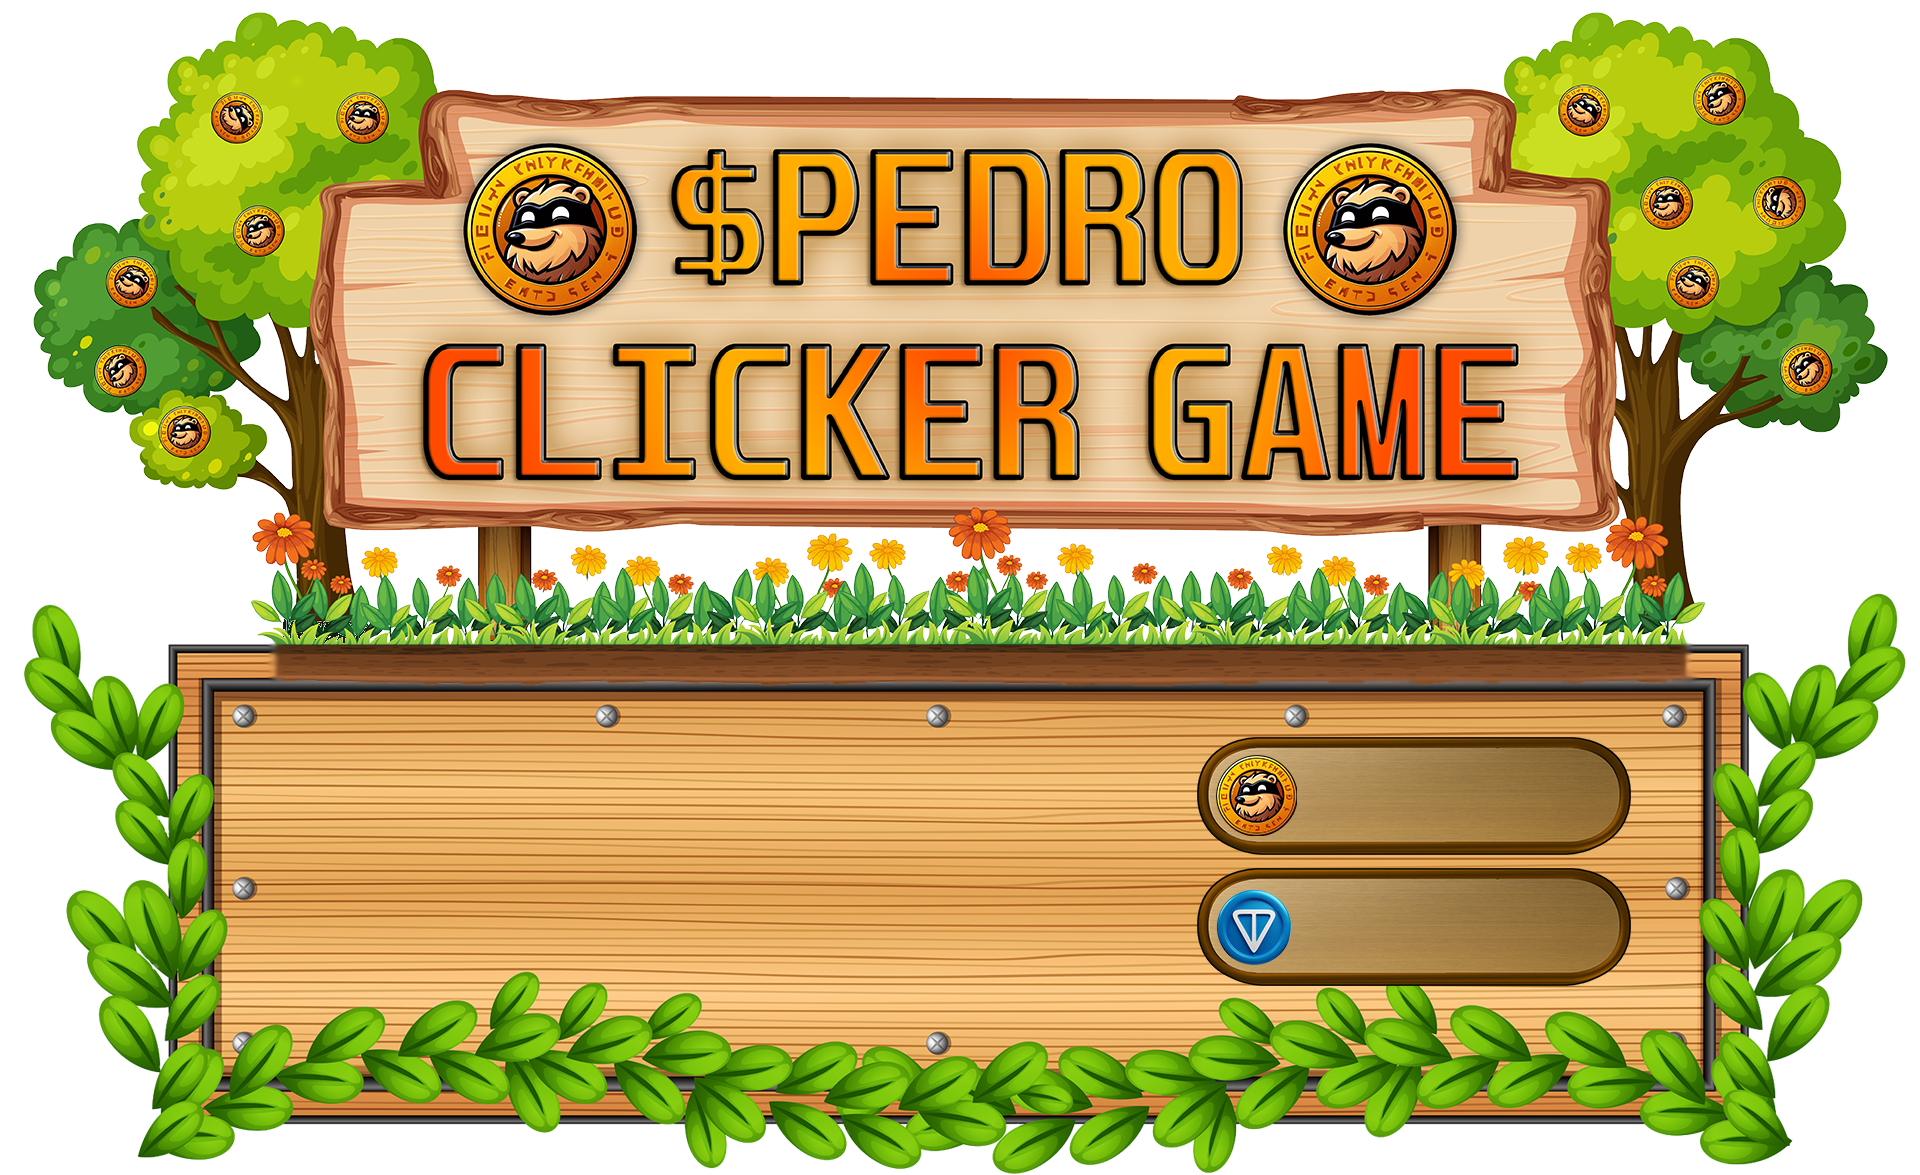
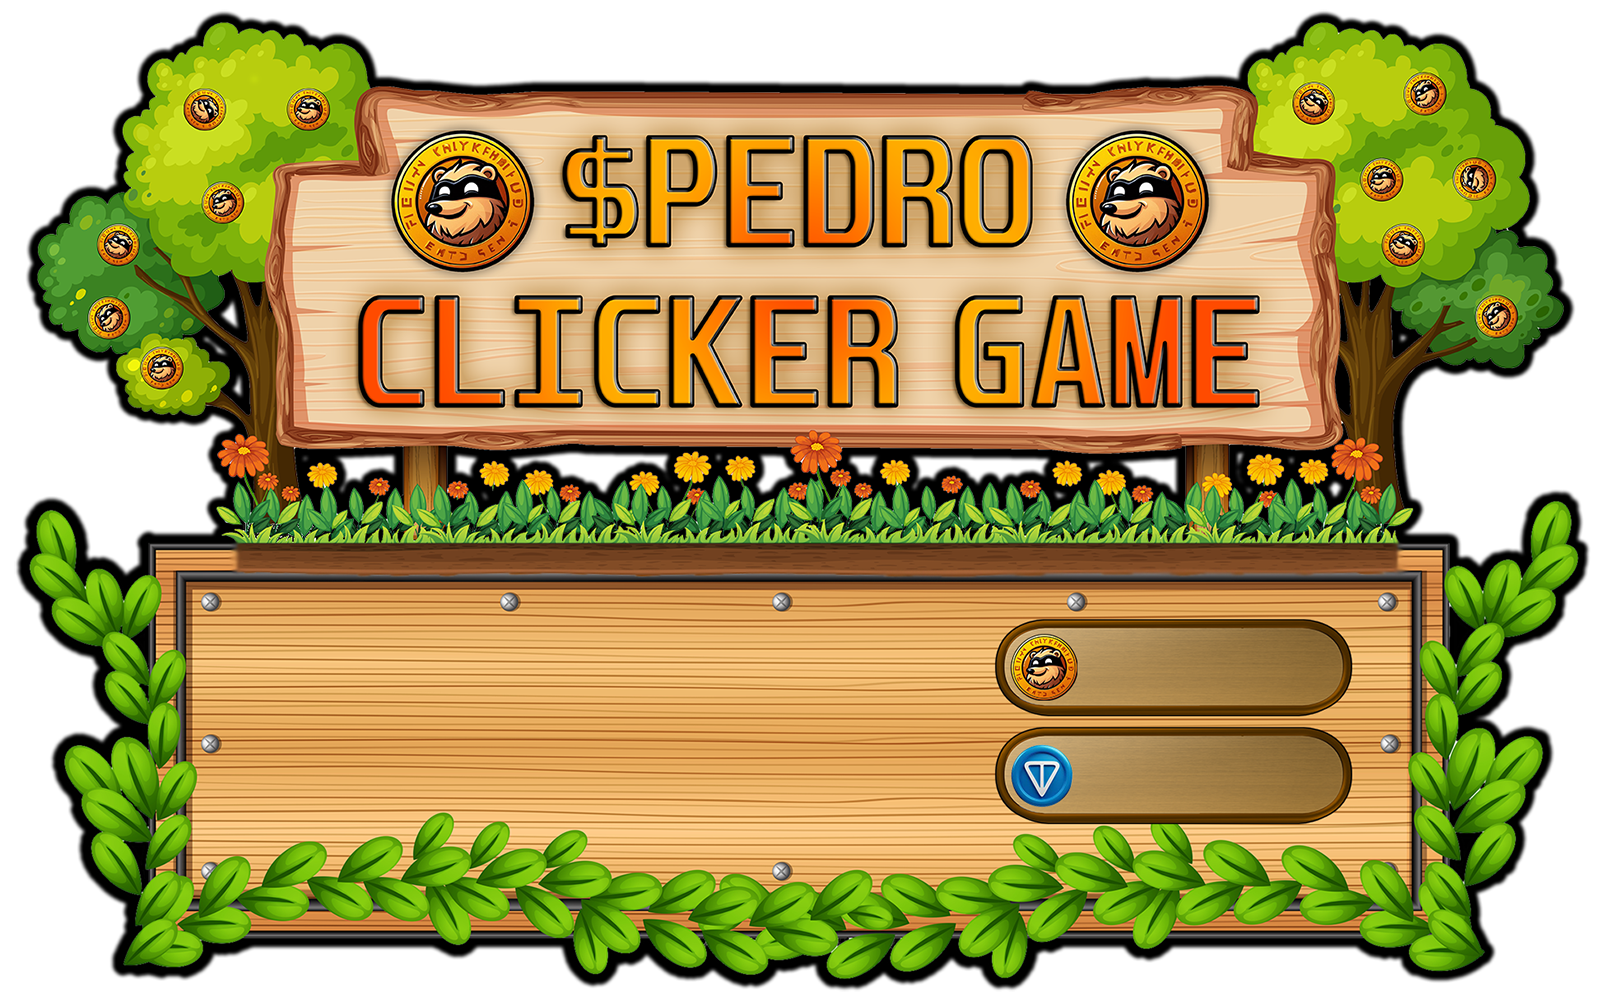
Add files via upload

diff --git a/home.html b/home.html
@@ -13,57 +13,76 @@
             text-align: center;
             background-color: #000; 
             color: #fff; 
-            margin: 0;
-            padding: 0;
+            background-image: url('material/images/wallpaper.png');
+            background-repeat: no-repeat;
+            background-attachment: fixed;
+            background-size: 100% 100%;
         }
 
         #title-container {
-            margin: auto;
-            font-size: 32px;
-            padding-top: 5px;
+            display: inline-block;
+            position: relative;
+            width: 100%;
         }
 
         #balance-container {
-            margin: auto;
-            margin: 20px;
-            font-size: 32px;
+            display: inline-block;
+            position: relative;
+            width: 100%;
         }
 
-        .task-container {
-            margin: auto;
-            max-width: 600px;
-        }
-
-        .task {
-            align-items: center;
-            justify-content: space-between;
-            margin: 10px auto;
-            padding: 10px;
-            display: flex;
-            border: 4px solid #5c2200; 
-            border-radius: 20px;
-            background-color: #c59232; 
-            box-shadow: 0 4px 8px rgba(0, 0, 0, 0.2);
-            transition: transform 0.3s ease;
-            width: 75%;
-        }
-
-        .task:hover {
-            transform: translateY(-5px);
-        }
-
-        .task-title {
-            margin: auto;
-            font-size: 24px;
+        .textd1 {
+            position: absolute;
+            margin: 0px;
+            top: 62%;
+            left: 18%;
             color: #000000;
             font-weight: bold;
         }
 
-        .task-text {
-            margin: auto;
-            font-size: 18px;
+        .textd2 {
+            position: absolute;
+            margin: 0px;
+            top: 69%;
+            left: 18%;
             color: #000000;
             font-weight: bold;
+        }
+
+        .textd3 {
+            position: absolute;
+            margin: 0px;
+            top: 76%;
+            left: 18%;
+            color: #000000;
+            font-weight: bold;
+        }
+
+        .textd4 {
+            position: absolute;
+            margin: 0px;
+            top: 40%;
+            left: 38%;
+            color: #000000;
+            font-weight: bold;
+        }
+
+        .num {
+        font-size: 14px;
+        }
+
+        .rum {
+        font-size: 24px;
+        position: absolute;
+        }
+
+        .image {
+        width: 100%;
+        }
+
+        .mpe {
+        bottom: -11%;
+        left: 52%;
         }
 
         .image-btn{
@@ -78,25 +97,23 @@
 </head>
 <body>
     <center>
-    
-    <div id="title-container">
+        <div id="title-container">
         <div class="unselectable">
-            <td id="image"><img src="material/images/titel-banner.png" onContextMenu="return false;" width="100%"></td>
-            <br>
+            <div class="task-text">
+                <p class='num textd1'><span id="tappower">0</span> Tappower 👆🏻</p>
+                <p class='num textd2'><span id="currentenergy">0</span>/<span id="maxenergy">0</span> Energy 🔋</p>
+                <p class='num textd3'>+<span id="tokenspersecond">0</span> 🪙$PEDRO/h ⛏</p>
+            </div>
+            <td id=""><img src="material/images/titel-banner.png" onContextMenu="return false;" width="100%"></td>
         </div>
     </div>
 
-    <div class="task-container unselectable">
-        <div class="task">
-            <div class="task-text">
-                <span id="tappower">0</span> Tappower 👆🏻<br>
-                <span id="currentenergy">0</span>/<span id="maxenergy">0</span> Energy 🔋<br>
-                +<span id="tokenspersecond">0</span> 🪙$PEDRO/h ⛏
-            </div>
-    </div>
     <div id="balance-container">
         <div class="unselectable">
-            <span id="balance">0</span>🪙
+            <div class="task-text">
+                <p class='rum textd4'><span id="balance">0</span><p class='rum mpe'><img src="material/images/minipedro.png" onContextMenu="return false;" width="28%"></p></p>
+            </div>
+            <td id="sssd"><img src="material/images/banner button.png" onContextMenu="return false;" width="80%"></td>
         </div>
     </div>
 
@@ -104,7 +121,7 @@
             <div class="task-image">
                 <button type="button" class="image-btn unselectable">
                     <div>
-                    <img src="material/images/logo.png" id="clicker" onclick="addPoints(tappower), removeEnergyPower(1), createNumberOnClicker(event)" width="100%" onContextMenu="return false;">
+                    <img src="material/images/logo mit rand.png" id="clicker" onclick="addPoints(tappower), removeEnergyPower(1), createNumberOnClicker(event)" width="100%" onContextMenu="return false;">
                 </button>
 
                 <br>

diff --git a/material/js/js.js b/material/js/js.js
@@ -150,6 +150,20 @@ setInterval(function() {
     }
 }, 1000);
 
+var windowInitWidth = window.innerWidth;
+      var nums = document.getElementsByClassName('num');
+
+      // get the value of num font-size
+      var numFontSize = window.getComputedStyle(nums[0]).getPropertyValue("font-size");
+      numFontSize = Number(numFontSize.replace("px", ""));
+
+      // update the text font-size when resizing the window
+      window.addEventListener("resize", function() {
+        for( var i = 0; i < nums.length; i++) {
+          nums[i].style.fontSize = (window.innerWidth / windowInitWidth * numFontSize) + 'px';
+        }
+})
+
 updateTokensPerSecond();
 updateBalance();
 updateTappower();

diff --git a/material/css/main.css b/material/css/main.css
@@ -153,7 +153,6 @@
     font-weight: bold;
     width:44%;
     height: 50px;
-    padding: .5em 2em;
     background: #c59232;
     border: 2px solid #794e00;
     box-shadow: 2px 2px 0 0 #ffef11;
@@ -184,7 +183,6 @@
     font-weight: bold;
     width:44%;
     height: 50px;
-    padding: .0em 0em;
     background: #008cff;
     border: 2px solid #0045ac;
     box-shadow: 2px 2px 0 0 #3ad1ff;
